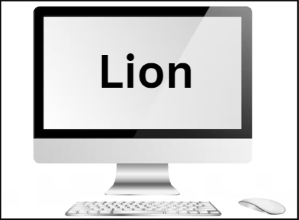
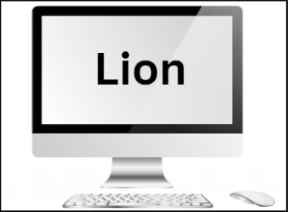
resizing the images

diff --git a/Frontend/src/Components/styleGame.css b/Frontend/src/Components/styleGame.css
@@ -14,7 +14,7 @@
     margin-top: 2%;
     margin-bottom: 4%;
     border: 3px solid black;
-    max-width: 90%;
+    max-width: 70%;                                /**/
     height: auto;
 }
 
@@ -26,11 +26,11 @@ h1 {
 
 .game p {
     margin: 0%;
-    font-size: 1.5rem;
+    font-size: 3rem;
 }
 .questionImg {
     margin: 1rem 0;
-    max-width: 90%;
+    max-width: 70%;                                     /**/
     height: auto;
     object-fit: cover;
 }
@@ -39,14 +39,14 @@ h1 {
     flex-wrap: wrap;
     justify-content: center;
     /*align-items: center;*/
-    gap: 1.5rem;
+    gap: 7rem;
     /* margin-bottom: 0px; Reduce the bottom margin */
 }
 
 .choice {
-    padding: 0.5rem 1rem;
-    font-size: 1.5rem;
-    border-radius: 2rem;
+    padding: 0.5rem 4rem;
+    font-size: 3rem;
+    border-radius: 3rem;
     border: 0.1rem solid #333;
     background-color: rgb(255, 255, 255);
     min-width: 100px;
@@ -63,7 +63,7 @@ h1 {
     display: flex;
     justify-content: center;
     flex-wrap: wrap;
-    gap: 1rem;
+    gap: 2rem;
 }
 
 .imgchoice {
@@ -73,8 +73,7 @@ h1 {
     background-color: transparent;
     transition: transform 0.2s ease, border-color 0.2s ease;
     display: inline-block;
-    width: 150px;  /* Adjust width */
-    height: auto; /* Adjust height */
+    
 }
 
 .imgchoice img {
@@ -90,15 +89,15 @@ h1 {
 }
 
 .submit {
-    font-size: 1.2rem;
+    font-size: 2.1rem;
     border-radius: 25px;
     border: 3px solid black;
     background-color: white;
     cursor: pointer;
-    padding: 0.5rem 1.5rem;
-    margin-top: 1rem;
-    margin-left: auto; /* Pushes the button to the right */
-    display: block; /* Ensures proper layout alignment */
+    padding: 0.5rem 3rem;
+    margin-top: 0.2rem;
+    margin-right: 3%;
+    float: right;
     transition: background-color 0.2s ease, transform 0.2s ease;
 }
 
@@ -106,40 +105,25 @@ h1 {
     background-color: rgb(221, 220, 220);
 }
 
-@media (max-width: 768px) {
-    h1 {
-        font-size: 1.8rem;
-    }
-    .choice {
-        font-size: 1.2rem;
-        padding: 0.5rem 1rem;
-        min-width: 80px;
-    }
-    .imgchoice {
-        width: 120px;
-    }
-    .submit {
-        font-size: 1rem;
-        padding: 0.5rem 1rem;
-    }
+/* End Page */
+#endPage {
+    display: flex;
+    flex-direction: column;
+    justify-content: center;
+    align-items: center;
+    height: 100vh;
+    text-align: center;
+    padding: 20px; /* Add padding for smaller screens */
+    box-sizing: border-box; /* Include padding in the height */
 }
 
-@media (max-width: 480px) {
-    .choice {
-        font-size: 1rem;
-        min-width: 70px;
-    }
-    .imgchoice {
-        width: 100px;
-    }
-    .submit {
-        font-size: 0.9rem;
-    }
-    .exit-button {
-        font-size: 0.9rem;
-    }
+#endPage h1 {
+    margin: 0;
+    padding: 10px;
+    font-size: 2.5rem; /* Scalable font size */
+    color: #333;
+    text-shadow: 1px 1px 2px rgba(0, 0, 0, 0.2);/* Text Visibility*/
 }
-
 
 /* Timer */
 /*.timer {
@@ -218,81 +202,104 @@ h1 {
     }
 }
 
+
+
 /* End Score */
-/*.endScore {
+.endScore {
     display: flex;
     justify-content: center;
     font-size: 1.5rem;
     color: black;
     margin-top: 20px;
     font-weight: bold;
-}*/
+}
 
-/* General styles for full-page centering */
-.page-container {
+#TimeUpPage {
     display: flex;
-    flex-direction: column; /* Align elements vertically */
-    justify-content: center; /* Center elements vertically */
-    align-items: center; /* Center elements horizontally */
-    height: 100vh; /* Full height of the viewport */
+    flex-direction: column;
+    justify-content: center;
+    align-items: center;
+    height: 100vh;
+}
+
+#TimeUpPage h1, #TimeUpPage h2, #TimeUpPage h3 {
     text-align: center;
-    padding: 20px; /* Add padding for smaller screens */
-    box-sizing: border-box; /* Include padding in the height/width calculation */
 }
 
-/* Specific styles for headings in both pages */
-.page-container h1, 
-.page-container h2, 
-.page-container h3 {
-    margin: 0;
-    padding: 10px;
-    font-size: 2.5rem; /* Scalable font size */
-    color: #333;
-    text-shadow: 1px 1px 2px rgba(0, 0, 0, 0.2); /* Improve text visibility */
-}
+.button-container {
+    display: flex; /* Use flexbox to align buttons side by side */
+    justify-content: center; /* Center the buttons horizontally */
+    gap: 20px; /* Add some spacing between the buttons */
+    margin-top: 20px; /* Optional: margin for spacing above the container */
+    flex-wrap: wrap;
+  }
+  
+  .exit-button {
+      background-color: #4CAF50; /* Green background */
+      color: white;
+      border: none;
+      padding: 10px 20px;
+      font-size: 1rem;
+      cursor: pointer;
+      border-radius: 5px;
+      transition: background-color 0.3s ease, transform 0.2s ease, box-shadow 0.2s ease, border-color 0.2s ease;
+      border: 2px solid black;
+      flex: 1; /* Flexibly grow/shrink button size */
+      max-width: 200px; /* Prevent excessive width on larger screens */
+      min-width: 120px; /* Maintain a minimum width */
 
-/* Styling for the score text */
-.endScore {
-    font-size: 1.5rem;
-    margin: 10px 0;
-}
-
-/* Style for exit buttons */
-.exit-button {  /* Added missing period for class selector */
-    background-color: #4CAF50;
-    color: white;
-    border: none;
-    padding: 10px 20px;
-    font-size: 1rem;
-    cursor: pointer;
-    border-radius: 5px;
-    transition: background-color 0.3s ease, transform 0.2s ease, box-shadow 0.2s ease;
-    border: 2px solid black;
-    max-width: 200px;
-    min-width: 120px;
-    margin-top: 20px; /* Add spacing between score and button */
-}
-
-/* Hover and active styles for buttons */
-.exit-button:hover {
-    background-color: #45a049;
-    transform: scale(1.1); /* Slightly enlarge on hover */
-    box-shadow: 0px 4px 6px rgba(0, 0, 0, 0.2); /* Add shadow on hover */
+  }
+  
+  .exit-button:hover {
+    background-color: #45a049; /* Darker green for hover */
+    transform: scale(1.1); /* Slightly smaller to simulate pressing */
+    box-shadow: 0px 4px 6px rgba(0, 0, 0, 0.2); /* Simulate depth during hover */
+     /* Add black border */
 }
 
 .exit-button:active {
-    background-color: #3e8e41;
-    transform: scale(1);
+    background-color: #3e8e41;  
+    transform: scale(1); 
     box-shadow: 0px 2px 4px rgba(0, 0, 0, 0.2);
 }
 
-/* Responsive styles for medium screens (tablets) */
 @media (max-width: 768px) {
-    .page-container h1 {
-        font-size: 2rem;
+    h1 {
+        font-size: 1.8rem;
     }
-    .page-container h2 {
-        font-size: 1.5rem;
+    .choice {
+        font-size: 1.2rem;
+        padding: 0.5rem 1rem;
+        min-width: 80px;
+    }
+    .imgchoice {
+        width: 120px;
+    }
+    .submit {
+        font-size: 1rem;
+        padding: 0.5rem 1rem;
+    }
+}
+
+@media (max-width: 480px) {
+    .choice {
+        font-size: 1rem;
+        min-width: 70px;
+    }
+    .imgchoice {
+        width: 100px;
+    }
+    .submit {
+        font-size: 0.9rem;
+    }
+    .exit-button {
+        font-size: 0.9rem;
+    }
+}
+/* Responsive styles */
+@media (max-width: 768px) {
+    #endPage h1 {
+        font-size: 2rem;
     }
     .endScore {
         font-size: 1.2rem;
@@ -303,23 +310,19 @@ h1 {
     }
 }
 
-/* Responsive styles for small screens (mobile phones) */
 @media (max-width: 480px) {
-    .page-container h1 {
+    #endPage h1 {
         font-size: 1.8rem;
-    }
-    .page-container h2 {
-        font-size: 1.3rem;
-    }
-    .page-container h3 {
-        font-size: 1rem;
     }
     .endScore {
         font-size: 1rem;
     }
-    
-    .exit-button {
-        width: 100%; /* Button takes full width */
-        max-width: none; /* Remove width restriction */
+    .button-container {
+        flex-direction: column; /* Stack buttons vertically */
+        gap: 10px;
     }
+    .exit-button {
+        width: 100%; /* Buttons take full width */
+        max-width: none; /* Remove width restriction */
+    } 
 }
